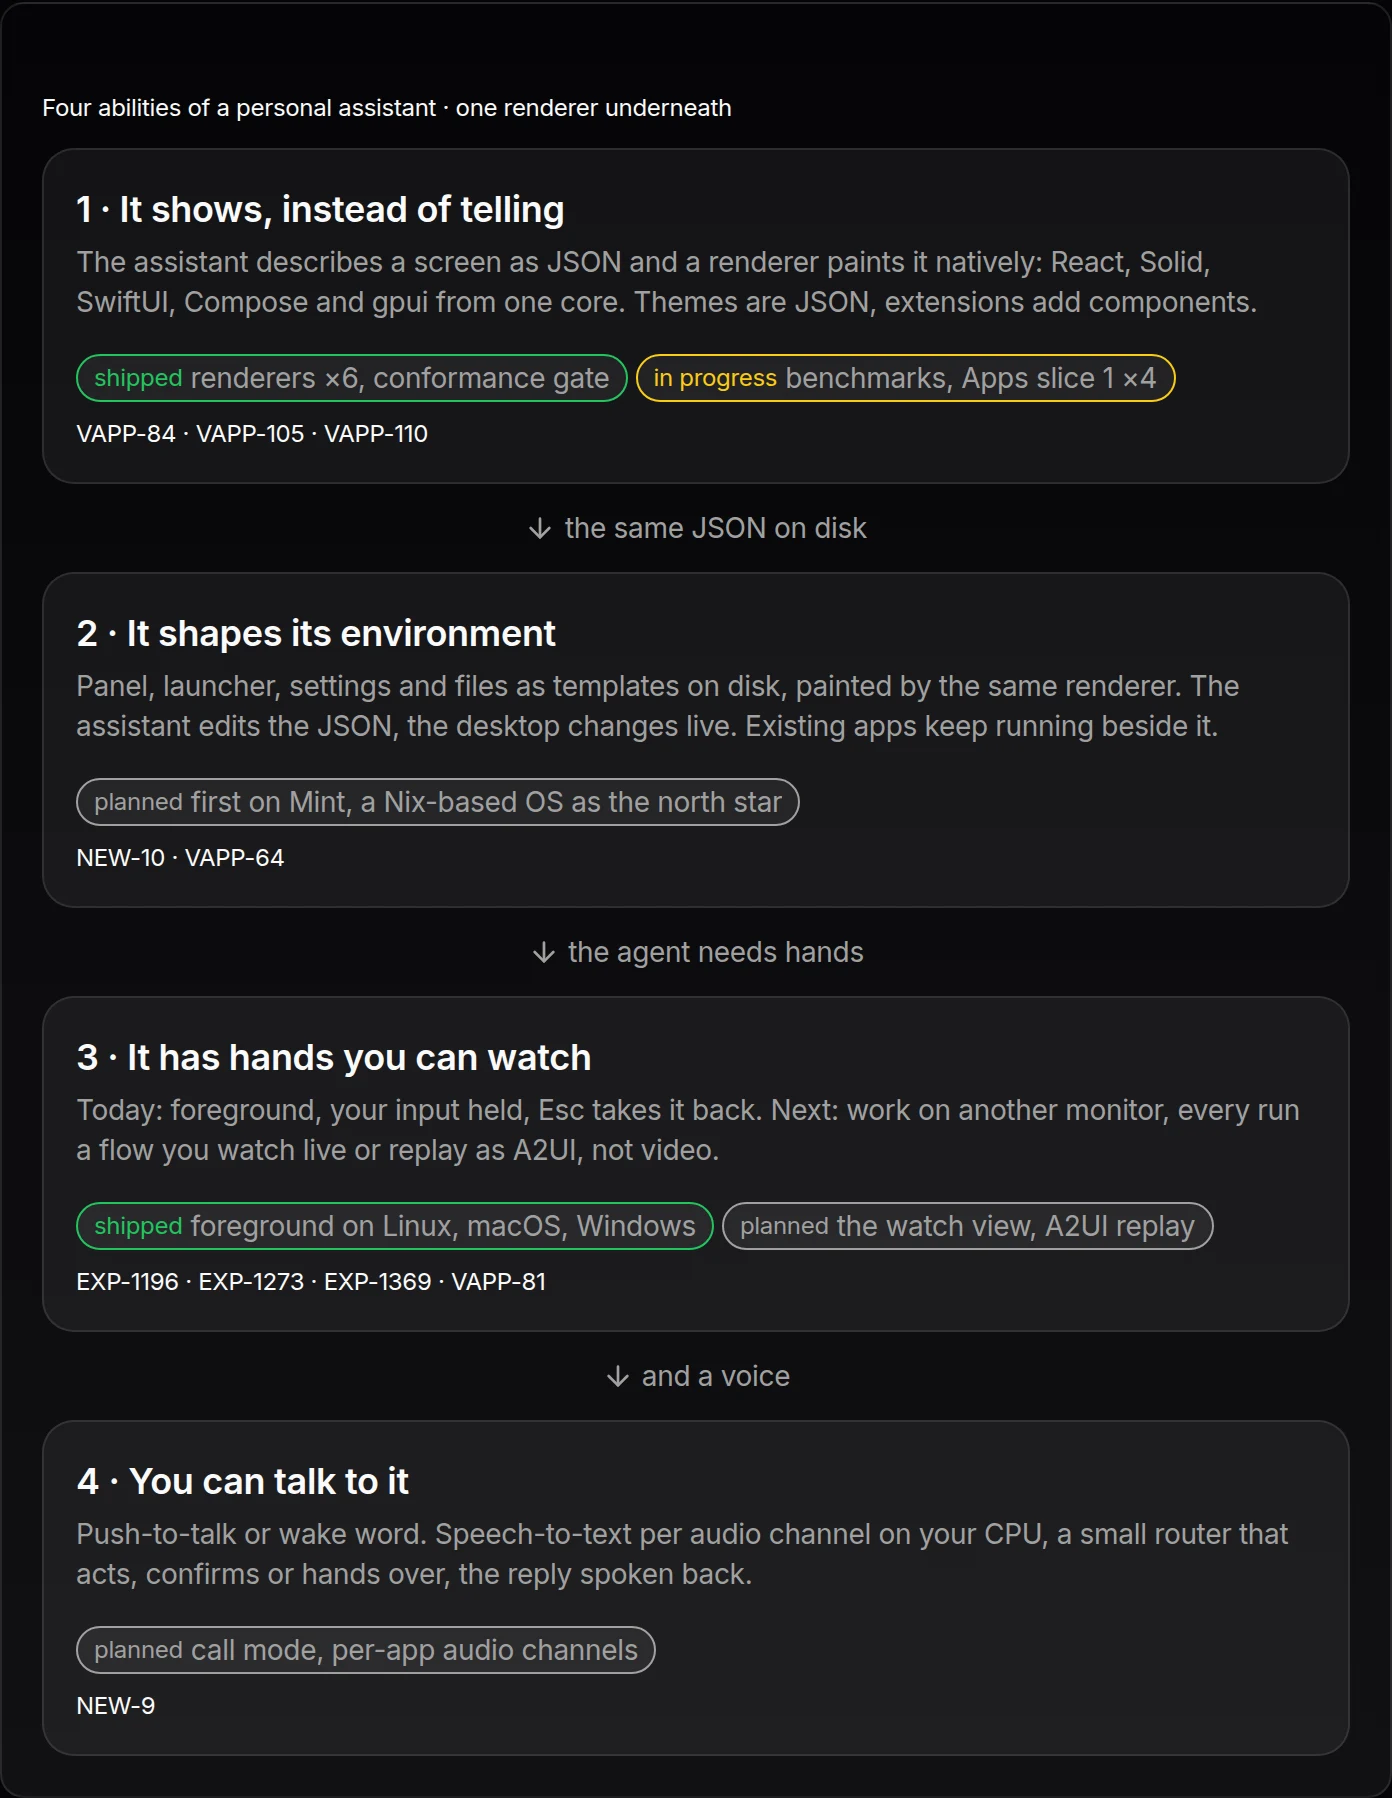
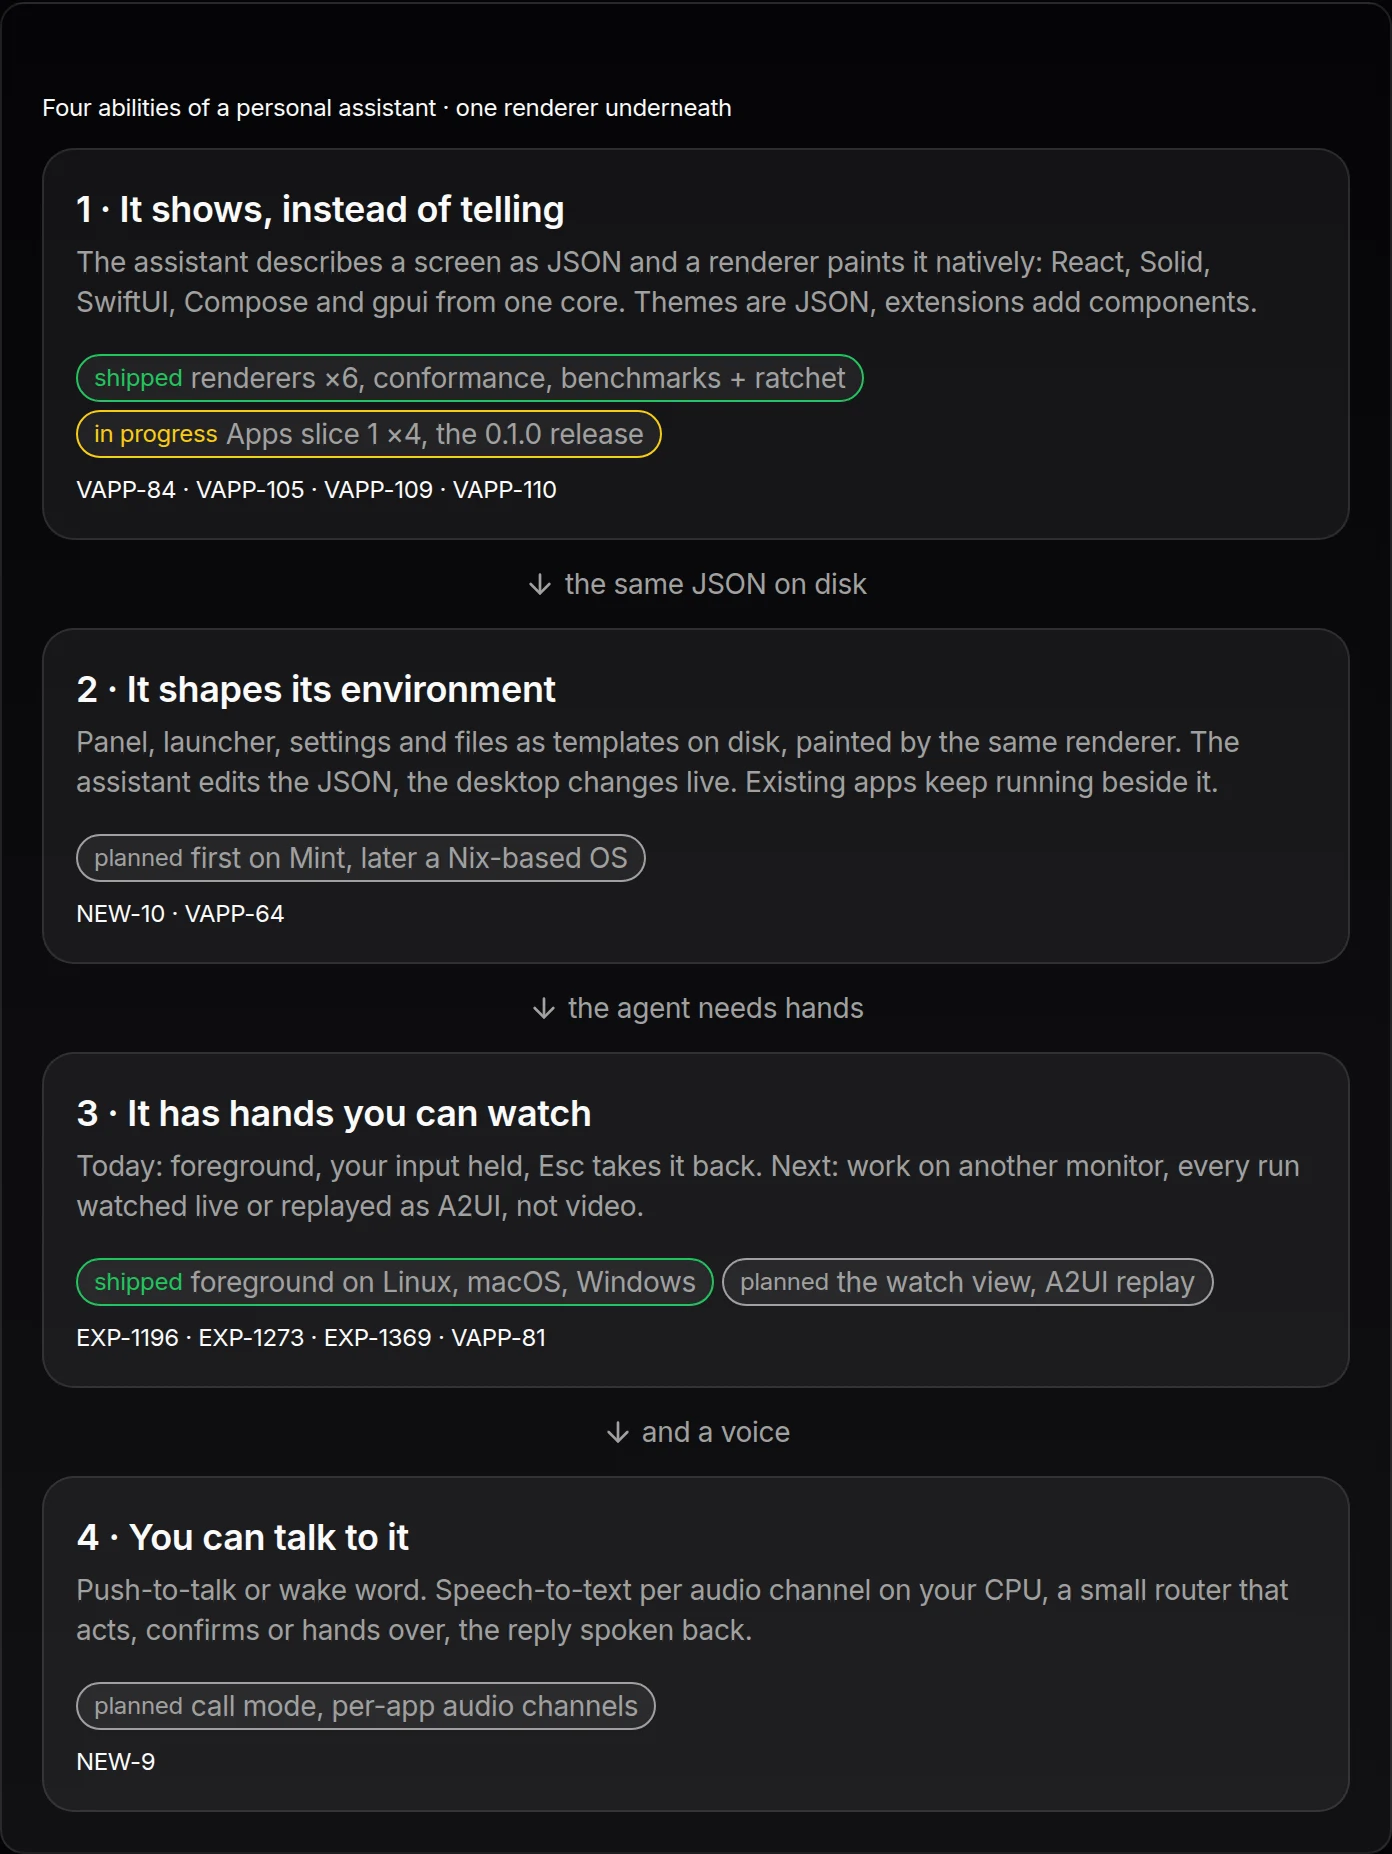
EXP-1367 + EXP-1368: posts checked against the live threads: the benchmark suite (VAPP-105) and the security review (VAPP-107) are on master, so article 2 and the stack draft say shipped with the M4 Pro numbers; article 1's question section is worded for the Dock (N-12, unmerged) as well as today's 

diff --git a/apps/marketing/src/blog/what-an-assistant-should-do.tsx b/apps/marketing/src/blog/what-an-assistant-should-do.tsx
@@ -8,7 +8,7 @@ import type { PostMeta } from "./types"
 
 /* public/blog/<id>.webp, photographed by scripts/blog-stills.ts at 2x. */
 export const STILLS = {
-  stack: { src: `/blog/assistant-stack.webp`, alt: `The four abilities as cards: it shows, it shapes its environment, it has hands you can watch, you can talk to it`, width: 1392, height: 1796 },
+  stack: { src: `/blog/assistant-stack.webp`, alt: `The four abilities as cards: it shows, it shapes its environment, it has hands you can watch, you can talk to it`, width: 1392, height: 1852 },
   watch: { src: `/blog/assistant-watch.webp`, alt: `Draft of a watch view: the flow as trace lines, the live window with a payouts table, the step graph and the replay`, width: 1392, height: 1582 },
   voice: { src: `/blog/assistant-voice.webp`, alt: `Draft of a voice pipeline: mic and desktop audio, local speech-to-text, a small router model, the assistant, the spoken reply`, width: 1392, height: 1118 },
 }
@@ -42,11 +42,16 @@ export function Post() {
       <Section id="show" num="02" label="Showing">
         <h2>It shows, instead of telling <StatusChip status="shipped" /></h2>
         <p>
-          Asked how a release went, the assistant answers with a card: a status, two numbers, a chart and two buttons.
+          Asked how a release went, the assistant answers with a card: a status, two numbers, a chart, two buttons.
           A2UI lets a model describe that screen as JSON from a fixed catalog, and a renderer paints it natively in
           the host's theme. Exponential UI (<IssueLink id="VAPP-84" />) does this for React, Solid, a web component,
-          SwiftUI, Compose and gpui from one Rust core, each painter passing the same conformance suite; apps without
-          code are in progress (<IssueLink id="VAPP-110" /> <StatusChip status="in-progress" />).
+          SwiftUI, Compose and gpui from one Rust core; every painter passes the same conformance suite, and a
+          benchmark suite with ten scenarios, results per machine and a CI ratchet merged on October 23
+          (<IssueLink id="VAPP-105" />). First paint of a 100,000-row list on an M4 Pro: 62 ms in the core, 112 ms in
+          Compose, 120 ms in React, 160 ms in Solid, 341 ms in SwiftUI, which is a listed finding with its own issue.
+          A URL policy denies private hosts by default and a consent card shows a host call's arguments before it runs
+          (<IssueLink id="VAPP-107" />). Apps without code, an editor with a chat beside a live preview, are in
+          progress (<IssueLink id="VAPP-110" /> <StatusChip status="in-progress" />).
         </p>
         <Shot view="exponential-ui-demo" platform="web" caption="One surface, the answer to a release question, on the web." />
         <ShotRow>
@@ -102,7 +107,7 @@ export function Post() {
       <Section id="feasible" num="07" label="Today">
         <h2>Status</h2>
         <ul>
-          <li><strong>Showing:</strong> shipped. Open renderers on six platforms, one conformance suite.</li>
+          <li><strong>Showing:</strong> shipped. Open renderers on six platforms, one conformance suite, a benchmark suite with a ratchet.</li>
           <li><strong>Environment:</strong> not started; it uses the same renderer.</li>
           <li><strong>Hands:</strong> foreground shipped on three operating systems; background and the watch view are drafts.</li>
           <li><strong>Voice:</strong> the models run on a CPU; the pipeline is a plan.</li>

diff --git a/apps/marketing/src/blog/session-as-interface.tsx b/apps/marketing/src/blog/session-as-interface.tsx
@@ -40,7 +40,7 @@ export function Post() {
           code-mode script as one card with its calls grouped by tool (<IssueLink id="EXP-1279" />). The engine tags
           every call with a kind before it reaches a client, so all four platforms draw the same card.
         </p>
-        <Shot view="trace" platform="web" caption="Trace lines: a command with its output, a sub-agent, a failed test run, the queue." />
+        <Shot view="trace" platform="web" caption="Trace lines: a command with its output, a sub-agent, a failed test run, the task list." />
       </Section>
 
       <Section id="chips" num="03" label="Chips">
@@ -90,14 +90,14 @@ export function Post() {
       </Section>
 
       <Section id="notifications" num="07" label="Notifications">
-        <h2>A question takes the composer's place</h2>
+        <h2>A question waits at the composer</h2>
         <p>
-          When the agent asks, the question is a card in the composer's place, with its options and a text field;
-          several questions stack and open one at a time. The thread moves under Needs you, the inbox gets an entry,
-          the phones get a push, and an email mention notifies a person. The agent can also offer quick replies, which
-          send on one tap.
+          When the agent asks, the question does not scroll away in the transcript: it waits as a card at the
+          composer, with its options and a text field, and several wait together. The thread moves under Needs you,
+          the inbox gets the entry, the phones get the push, and an email mention notifies a person. The agent can
+          also offer quick replies, which send on one tap.
         </p>
-        <Shot view="ask-dock" platform="web" caption="The ask dock: one plan as the big card, then two plans and a question stacked." />
+        <Shot view="ask-dock" platform="web" caption="Waiting plans and a question at the composer." />
         <Shot view="thread-replies" platform="web" caption="Quick replies above the composer." />
       </Section>
 

diff --git a/apps/marketing/src/blog/surfaces.ts b/apps/marketing/src/blog/surfaces.ts
@@ -56,10 +56,10 @@ export const STACK_SURFACE: Nested = {
       `1 · It shows, instead of telling`,
       `The assistant describes a screen as JSON and a renderer paints it natively: React, Solid, SwiftUI, Compose and gpui from one core. Themes are JSON, extensions add components.`,
       [
-        { label: `shipped`, tone: `success`, detail: `renderers ×6, conformance gate` },
-        { label: `in progress`, tone: `warning`, detail: `benchmarks, Apps slice 1 ×4` },
+        { label: `shipped`, tone: `success`, detail: `renderers ×6, conformance, benchmarks + ratchet` },
+        { label: `in progress`, tone: `warning`, detail: `Apps slice 1 ×4, the 0.1.0 release` },
       ],
-      `VAPP-84 · VAPP-105 · VAPP-110`
+      `VAPP-84 · VAPP-105 · VAPP-109 · VAPP-110`
     ),
     between(`b1`, `the same JSON on disk`),
     layer(
